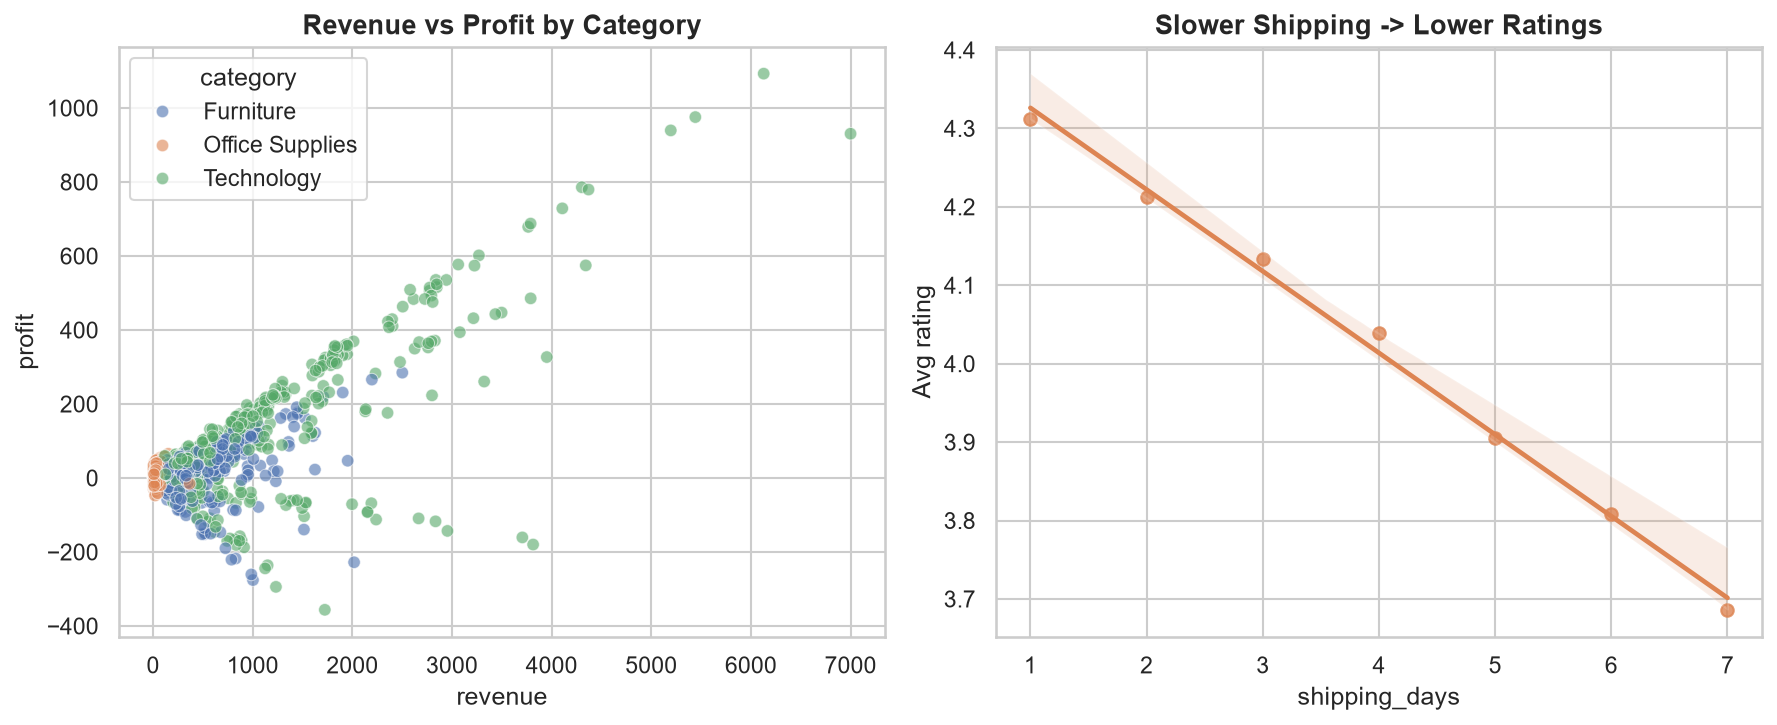
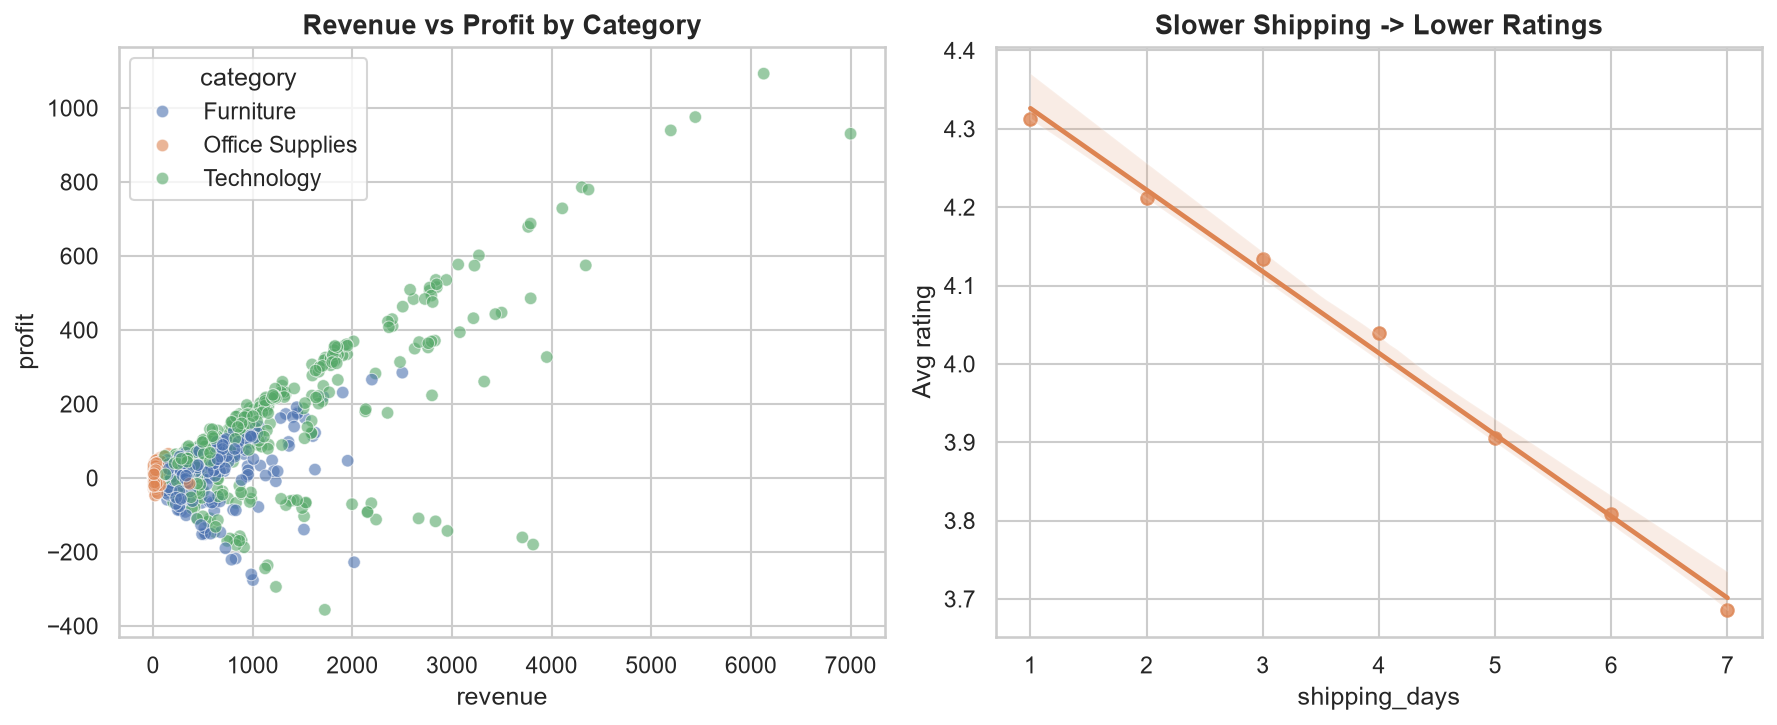
Add Profit Regression Model

diff --git a/regression_model.py b/regression_model.py
@@ -1,0 +1,101 @@
+"""
+Regression add-on for the Retail Sales EDA project.
+Predicts profit per order from order details.
+
+Run AFTER eda_project.py (it needs data/retail_orders_clean.csv):
+    pip install scikit-learn
+    python regression_model.py
+"""
+
+import numpy as np
+import pandas as pd
+import matplotlib
+matplotlib.use("Agg")
+import matplotlib.pyplot as plt
+from sklearn.model_selection import train_test_split, cross_val_score
+from sklearn.compose import ColumnTransformer
+from sklearn.pipeline import Pipeline
+from sklearn.preprocessing import OneHotEncoder, StandardScaler
+from sklearn.impute import SimpleImputer
+from sklearn.dummy import DummyRegressor
+from sklearn.linear_model import LinearRegression
+from sklearn.ensemble import RandomForestRegressor
+from sklearn.metrics import mean_absolute_error, mean_squared_error, r2_score
+
+# ------------------------------------------------------------------ CONFIG
+CSV_PATH = "data/retail_orders_clean.csv"
+TARGET = "profit"
+NUMERIC_FEATURES = ["unit_price", "quantity", "discount", "customer_age", "shipping_days"]
+CATEGORICAL_FEATURES = ["category", "region", "customer_segment", "payment_method"]
+DATE_COLUMN = "order_date"
+RANDOM_STATE = 42
+# -------------------------------------------------------------------------
+# Leakage note: "revenue" is calculated from unit_price, quantity and discount,
+# and "profit_margin_pct" is calculated from profit itself, so neither is used
+# as an input feature.
+
+df = pd.read_csv(CSV_PATH)
+
+if DATE_COLUMN:
+    df[DATE_COLUMN] = pd.to_datetime(df[DATE_COLUMN], errors="coerce")
+    df["month"] = df[DATE_COLUMN].dt.month
+    df["weekday"] = df[DATE_COLUMN].dt.weekday
+    NUMERIC_FEATURES = NUMERIC_FEATURES + ["month", "weekday"]
+
+df = df.dropna(subset=[TARGET])
+X = df[NUMERIC_FEATURES + CATEGORICAL_FEATURES]
+y = df[TARGET]
+
+X_train, X_test, y_train, y_test = train_test_split(
+    X, y, test_size=0.2, random_state=RANDOM_STATE
+)
+
+preprocess = ColumnTransformer([
+    ("num", Pipeline([("impute", SimpleImputer(strategy="median")),
+                      ("scale", StandardScaler())]), NUMERIC_FEATURES),
+    ("cat", Pipeline([("impute", SimpleImputer(strategy="most_frequent")),
+                      ("onehot", OneHotEncoder(handle_unknown="ignore"))]), CATEGORICAL_FEATURES),
+])
+
+models = {
+    "Baseline (predict the mean)": DummyRegressor(strategy="mean"),
+    "Linear Regression": LinearRegression(),
+    "Random Forest": RandomForestRegressor(n_estimators=200, random_state=RANDOM_STATE),
+}
+
+rows, fitted = [], {}
+for name, model in models.items():
+    pipe = Pipeline([("prep", preprocess), ("model", model)])
+    pipe.fit(X_train, y_train)
+    pred = pipe.predict(X_test)
+    cv_r2 = cross_val_score(pipe, X, y, cv=5, scoring="r2").mean()
+    rows.append({
+        "Model": name,
+        "MAE": mean_absolute_error(y_test, pred),
+        "RMSE": np.sqrt(mean_squared_error(y_test, pred)),
+        "R2 (test)": r2_score(y_test, pred),
+        "R2 (5-fold CV)": cv_r2,
+    })
+    fitted[name] = (pipe, pred)
+
+results = pd.DataFrame(rows).round(3)
+print("\n=== RESULTS (lower MAE/RMSE is better, higher R2 is better) ===")
+print(results.to_string(index=False))
+
+best = results.sort_values("R2 (test)", ascending=False).iloc[0]["Model"]
+pred = fitted[best][1]
+plt.figure(figsize=(6, 6))
+plt.scatter(y_test, pred, alpha=0.5)
+lims = [min(y_test.min(), pred.min()), max(y_test.max(), pred.max())]
+plt.plot(lims, lims, "r--", label="Perfect prediction")
+plt.xlabel("Actual " + TARGET)
+plt.ylabel("Predicted " + TARGET)
+plt.title(f"Actual vs Predicted ({best})")
+plt.legend()
+plt.tight_layout()
+plt.savefig("figures/08_actual_vs_predicted.png", dpi=150)
+print(f"\nSaved plot: figures/08_actual_vs_predicted.png  (best model: {best})")
+
+errors = (y_test - pred).abs().sort_values(ascending=False).head(5)
+print("\nFive largest errors (index, absolute error):")
+print(errors.round(2).to_string())

diff --git a/README.md b/README.md
@@ -67,5 +67,18 @@ python eda_project.py
 - Correlation does not prove causation.
 - Median imputation can understate real variation.
 
+## Predictive Model: Profit Regression
+Predicted profit per order from price, quantity, discount, category, region, customer details and order month, using scikit-learn pipelines (imputation, scaling, one-hot encoding).
+
+| Model | MAE | RMSE | R² (test) | R² (5-fold CV) |
+|---|---|---|---|---|
+| Baseline (mean) | 68.92 | 125.26 | 0.00 | -0.00 |
+| Linear Regression | 51.00 | 92.73 | 0.45 | 0.45 |
+| Random Forest | 14.41 | 20.01 | 0.97 | 0.97 |
+
+Random Forest explains about 97% of the variance in profit, with a typical error of about $14 per order, against $69 for a naive average. Revenue and margin were excluded as features to avoid data leakage.
+
+![Actual vs predicted](figures/08_actual_vs_predicted.png)
+
 ## Tools
-Python 3 · Pandas · NumPy · Matplotlib · Seaborn
+Python 3 · Pandas · NumPy · Matplotlib · Seaborn · scikit-learn
